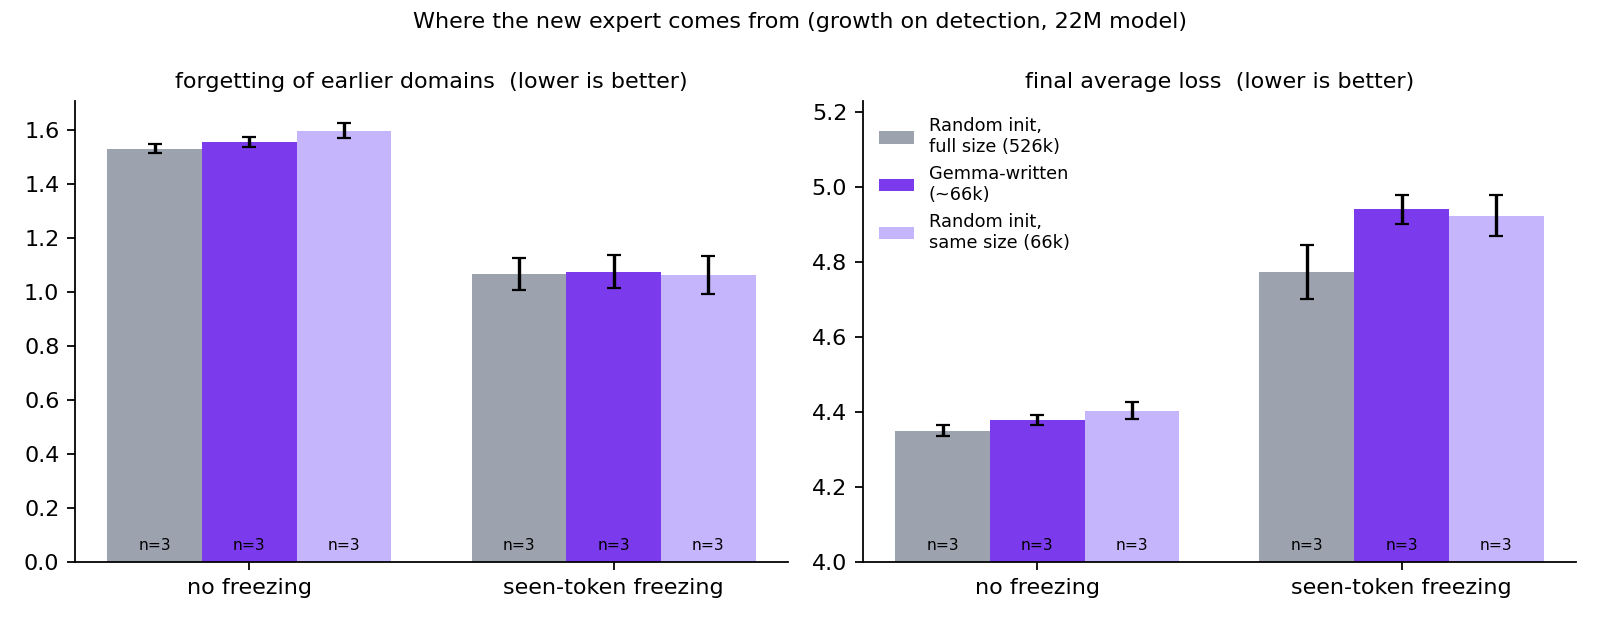
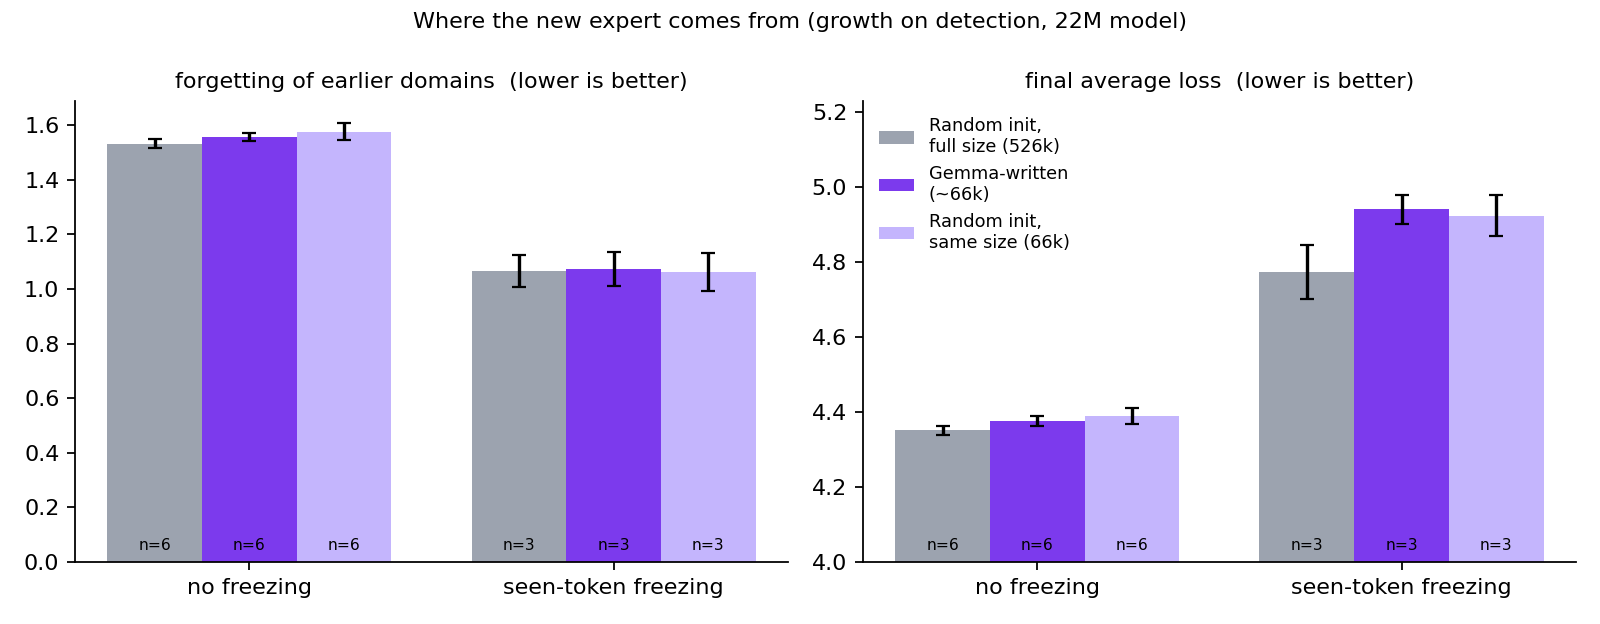
feat: mixture phases for detection-sensitivity tests; 6-seed generated-vs-random result

diff --git a/results/NOTES.md b/results/NOTES.md
@@ -127,21 +127,25 @@ domain labels. Signal arms from day 4 on use `confirm_steps=3`.
     activation → Linear 128→256 (~66k params; one design used width 256).
     That is ~8× smaller than the 526k-param template, so a size-matched
     random-init template (hidden 128) is the control. Growth on detection,
-    22M model, forgetting / final avg loss, 3 seeds:
+    22M model, forgetting / final avg loss (no freezing: 6 seeds, days 7 + 7c;
+    seen-token freezing: 3 seeds):
 
-    | New expert | No freezing | Seen-token freezing |
+    | New expert | No freezing (n = 6) | Seen-token freezing (n = 3) |
     |---|---|---|
-    | Random init, full size (526k) | 1.529 ± 0.021 / 4.350 ± 0.018 | 1.066 ± 0.072 / 4.774 ± 0.087 |
-    | Gemma-written (~66k) | 1.554 ± 0.022 / 4.379 ± 0.016 | 1.074 ± 0.075 / 4.941 ± 0.048 |
-    | Random init, same size (66k) | 1.596 ± 0.034 / 4.404 ± 0.028 | 1.062 ± 0.087 / 4.924 ± 0.068 |
+    | Random init, full size (526k) | 1.532 ± 0.018 / 4.351 ± 0.013 | 1.066 ± 0.072 / 4.774 ± 0.087 |
+    | Gemma-written (~66k) | 1.557 ± 0.017 / 4.377 ± 0.015 | 1.074 ± 0.075 / 4.941 ± 0.048 |
+    | Random init, same size (66k) | 1.576 ± 0.034 / 4.389 ± 0.024 | 1.062 ± 0.087 / 4.924 ± 0.068 |
 
-    Gemma vs same-size random: slightly better without freezing (~1 std),
-    slightly worse with it — opposite directions, within seed noise, so no
-    detectable effect of LLM design. Expert *size* matters more: under
-    seen-token freezing, where new experts carry all new-domain learning, the
-    full-size template learns new domains clearly better (new-domain loss 4.86
-    vs ~5.10). Seeds 3–5 of the no-freeze trio ran on day 7c (results pending
-    download) to firm up the closest call.
+    Welch t-tests over the 6 no-freeze seeds: **Gemma vs same-size random is
+    not significant** (forgetting −0.019, p = 0.27; final −0.013, p = 0.30) —
+    and the gap shrank from 3 to 6 seeds, consistent with no effect. With
+    seen-token freezing the sign flips (Gemma slightly worse). **Expert size is
+    significant**: full-size vs same-size template, forgetting −0.044
+    (p = 0.024), final −0.038 (p = 0.010); under seen-token freezing, where new
+    experts carry all new-domain learning, the full-size template learns new
+    domains clearly better (new-domain loss 4.86 vs ~5.10). Answer to the
+    original question: LLM-written experts are no better than random ones of
+    the same size; what matters is how much capacity is added.
 
 ## Figures (`results/figures/`)
 
@@ -161,8 +165,7 @@ domain labels. Signal arms from day 4 on use `confirm_steps=3`.
 
 ## Open / in progress
 
-- **Day 7c** (seeds 3–5 of the no-freeze generated / size-matched / full
-  template arms) finished on the cloud box; download and update finding 14
-  and fig 7 to n = 6.
+- **Day 8 (running): detection sensitivity** — stories → stories + q% code
+  (q = 5, 10, 25, 50) and a no-shift control, 3 seeds each.
 - Not started: expert pruning, GPT-2 (pretrained, upcycled) runs, learning-rate re-warm for the
   replay baseline.
